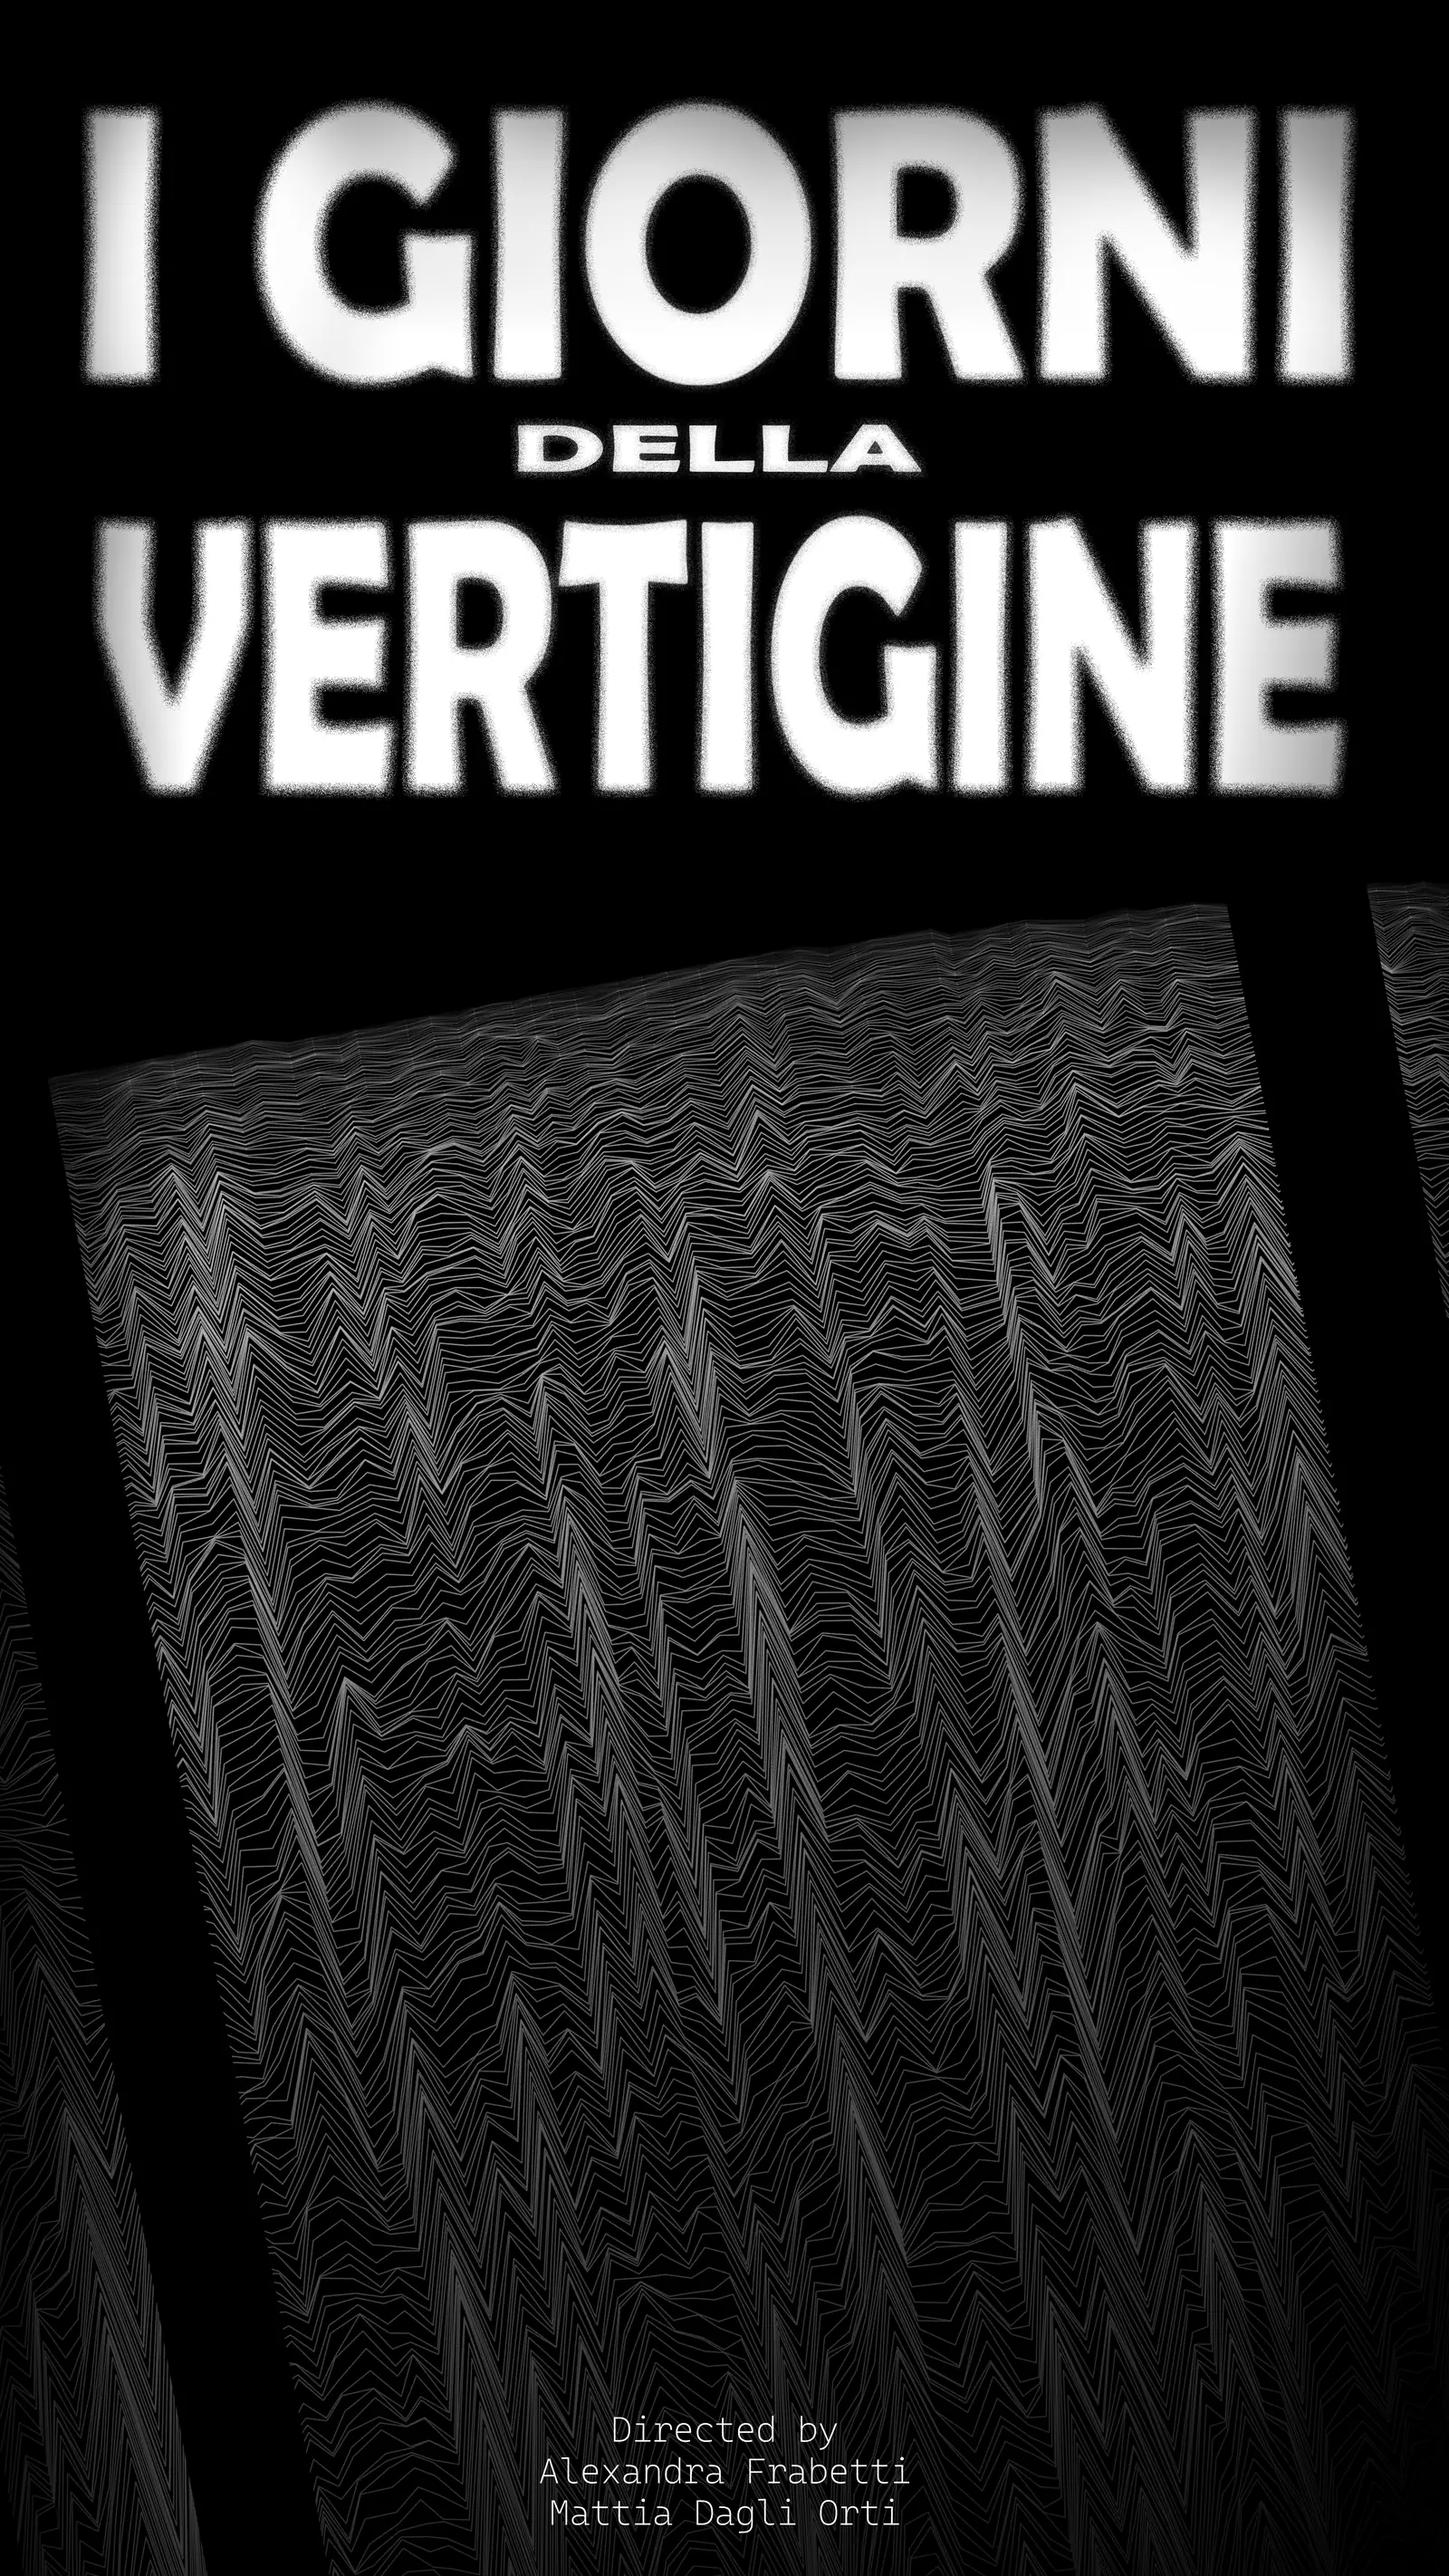
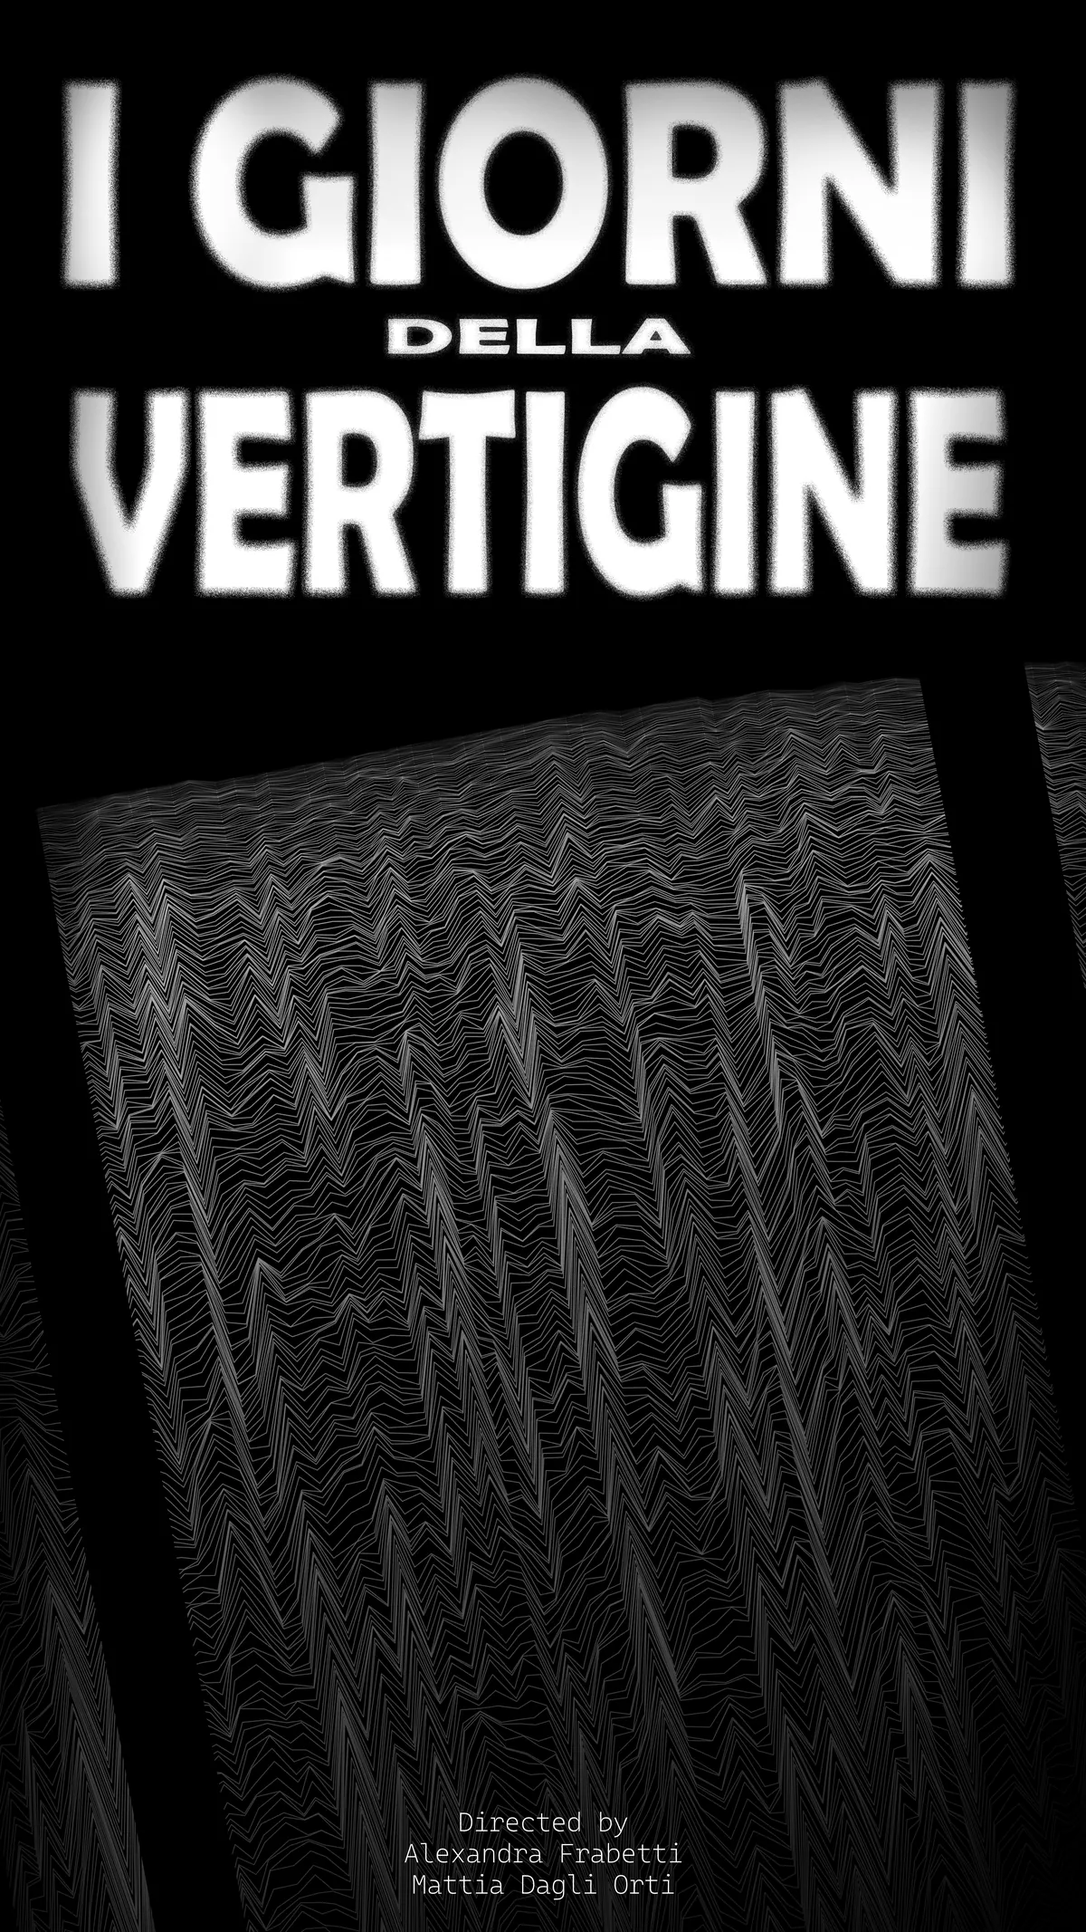
perf: immagini pesanti ricompresse
emma, matilde, morgan e dsc09163 erano a qualità 100 contro il 92 del resto del sito: ora a 92 (backstage rifatta dal master). La locandina scende a 1200 px di larghezza, qualità 80, dal master: più fedele della versione precedente e il 28% più leggera.

Totale 2.4 MB -> 0.8 MB.

diff --git a/app/content.ts b/app/content.ts
@@ -423,13 +423,15 @@ export const OPERE = {
           author: "Alexandra Frabetti, Mattia Dagli Orti",
           meta: { it: "Cortometraggio", en: "Short film" },
           /* The poster, reduced from the 4320×7680 master (kept outside the
-             repo) to a web size: next/image cuts the srcset from this. The
+             repo) to a web size: 1200 wide covers the grid card on a large
+             phone, the widest it is ever drawn. Quality 80, not the site's
+             92: its hairlines are near-noise and would cost 650 KB at 92. The
              grid card shows its foot: the title sits mid-poster and a centred
              crop cut through the lettering. */
           cover: {
             src: "/media/vertigine-locandina.webp",
-            width: 1600,
-            height: 2844,
+            width: 1200,
+            height: 2133,
             position: "50% 100%",
           },
           body: [
